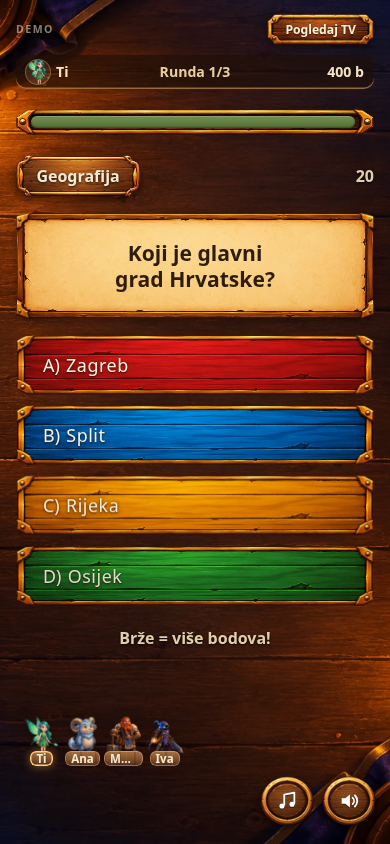
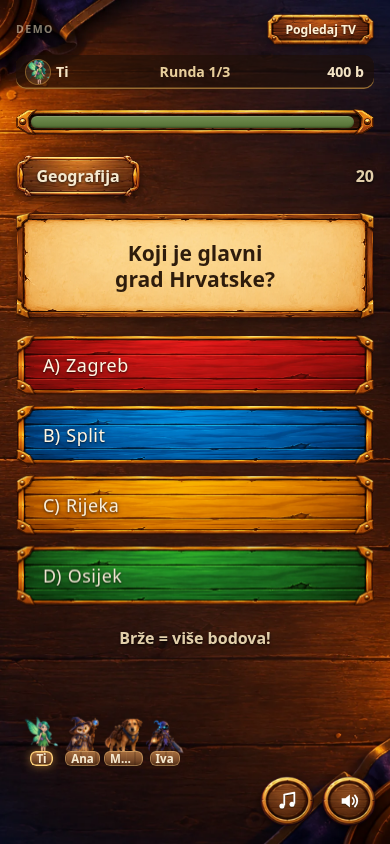
Improve mobile feedback using original tavern artwork and styling

diff --git a/index.html b/index.html
@@ -1990,6 +1990,24 @@
   .step-meter i.crown.on { opacity: 1; }
   .finale-q.crownq .opts { width: min(100%, 1100px); }
 </style>
+
+<style id="mobile-feedback-style">
+  /* Additive feedback only: original artwork, palette and screen layout stay in place. */
+  .phone .round-hit { display: flex; align-items: center; justify-content: center; flex-wrap: wrap; gap: 6px 12px; }
+  .round-hit > span { display: inline-flex; align-items: center; gap: 5px; }
+  .round-hit .mini { display: inline-flex; width: 26px; height: 26px; flex: none; }
+  .round-hit .mini > *, .round-reaction > * { width: 100%; height: 100%; object-fit: contain; }
+  .round-hit .pw-img { width: 22px; height: 22px; object-fit: contain; }
+  .phone .round-answer-detail { display: block; margin-top: 3px; font-size: .76em; font-weight: 700; }
+  .phone .fx .fx-label { max-width: 92%; white-space: normal; text-align: center; }
+  .fx-clear-progress { display: block; font-size: .76em; margin-top: 3px; font-variant-numeric: tabular-nums; }
+  .phone .rv-personal { display: flex; align-items: center; justify-content: center; gap: 10px; }
+  .round-reaction { display: inline-flex; width: 60px; height: 60px; flex: none; }
+  .phone .rv-personal .rv-sum { text-align: left; }
+  .phone .round-reaction { animation: reactionArrive .4s ease-out both; animation-delay: calc(1800ms + var(--rvo, 0ms) - var(--el, 0ms)); }
+  @keyframes reactionArrive { from { opacity: 0; transform: translateY(6px); } to { opacity: 1; transform: none; } }
+  @media (prefers-reduced-motion: reduce) { .phone .round-reaction { animation: none; } }
+</style>
 </head>
 <body>
 <div id="app" class="screen center"></div>
@@ -4543,7 +4561,7 @@ function createGame(o) {
   function phoneSig(d) {
     const me = meOf(d) || null;
     const roster = (d.ph === 'lobby' || d.ph === 'power' || d.ph === 'final') ? d.P.map((p) => [p.id, p.n, p.a, p.c])
-      : (d.ph === 'vote' || d.ph === 'voteResult') ? d.P.map((p) => [p.id, p.a, p.vt]) : ['duel', 'question', 'fq'].includes(d.ph) ? d.P.map((p) => [p.id, p.a, p.ok]) : null;
+      : (d.ph === 'vote' || d.ph === 'voteResult') ? d.P.map((p) => [p.id, p.a, p.vt]) : ['duel', 'question', 'fq'].includes(d.ph) ? d.P.map((p) => [p.id, p.a, p.c, p.ok]) : null;
     return JSON.stringify([PV ? JSON.stringify(PV, (k, v) => (k === 'ms' ? Math.ceil(v / 1000) : v)) : 0, d.news ? d.news.id : 0, d.bt ? d.bt.id : 0, d.ph, d.s, me, d.cats, d.cw, d.q, d.so, d.li, d.cor, d.win, d.it, d.ev, roster, d.mo, d.du, d.se, d.sxr, d.ht, d.or, d.hl ? 1 : 0, d.bz ? 1 : 0, d.mj]);
   }
 
@@ -4561,6 +4579,8 @@ function createGame(o) {
     stopFxTimer();
     L.fxq.shift();
     L.fx = makeFx(L.fxq[0]);
+    L.fxCleared = !L.fx;
+    if (L.fxCleared) AUDIO.play('confirm');
     HAPTIC.impact();
     // odgovori ostaju zaključani kratko vrijeme da se zadnji dodir ne pretvori u odgovor
     L.lockUntil = Date.now() + 900;
@@ -4620,7 +4640,8 @@ function createGame(o) {
   }
   function fxHtml(fx) {
     if (!fx) return '';
-    const label = '<div class="fx-label">' + FX_LABEL[fx.k] + '</div>';
+    const progress = fx.k === 'led' ? fx.hits + ' / ' + fx.need + ' dodira' : fx.k === 'sluz' ? Math.round((48 - fx.left) / 48 * 100) + '% očišćeno' : '';
+    const label = '<div class="fx-label">' + (FX_LABEL[fx.k] || '') + (progress ? '<span class="fx-clear-progress">' + progress + '</span>' : '') + '</div>';
     if (fx.k === 'led') {
       const crack = Math.min(1, fx.hits / fx.need);
       let lines = '';
@@ -4674,6 +4695,8 @@ function createGame(o) {
           const i = y * 6 + x;
           if (fx.cells[i]) { fx.cells[i] = 0; fx.left--; if (cells[i]) cells[i].classList.add('gone'); if (fx.left % 7 === 0) SFX.play('splat'); }
         }
+        const progress = el.querySelector('.fx-clear-progress');
+        if (progress) progress.textContent = Math.round((48 - fx.left) / 48 * 100) + '% očišćeno';
         if (fx.left <= 5) fxDone();
       };
       let down = false;
@@ -5691,7 +5714,7 @@ function createGame(o) {
   }
 
   function barRow(d) {
-    const mood = (p) => (d.ph === 'question' || d.ph === 'fq') && p.fx && p.fx.length ? 'shocked' : p.ok ? 'happy' : 'idle';
+    const mood = (p) => p.ok || (p.id === PID && L.sent) ? 'happy' : (d.ph === 'question' || d.ph === 'fq') && (p.id === PID ? L.fx || L.eat || (L.bombs && L.bombs.some((b) => b.on)) : p.fx && p.fx.length) ? 'shocked' : 'idle';
     return '<div class="bar-row">' + d.P.map((p) => '<div class="bw' + (p.id === PID ? ' me' : '') + '" title="' + esc(p.n) + '" aria-label="' + esc(p.n) + '"><span class="glow"></span>' + avSvg(p.a, mood(p)) + '<span class="nm">' + esc(p.id === PID ? 'Ti' : p.n) + '</span>' + (p.ok ? '<span class="ok" data-bk="bw' + esc(p.id) + '" data-bv="1">✓</span>' : '') + '</div>').join('') + '</div>';
   }
   function hudRound(rl) { const m = /^Runda (\d+)$/.exec(rl || ''); return m ? 'Runda ' + m[1] + '/3' : (rl || ''); }
@@ -6017,11 +6040,14 @@ function createGame(o) {
       return '<button class="' + cls + '" data-c="' + i + '" data-bk="op' + i + '" data-bv="' + st + '"' + (st ? ' data-ba="' + (st === 'picked' ? 'pickIn' : 'dimIn') + '"' : '') + ' aria-pressed="' + (mine === i) + '"' + (answered || gone ? ' disabled' : '') + '><span class="shape">' + SHAPES[i] + '</span><span class="otxt">' + optText(o, i) + '</span></button>';
     }).join('');
     const attackers = (d.ev || []).filter((e) => e.t === PID);
-    const hit = attackers.length ? '<div class="p-sub">' + attackers.map((e) => esc(nameOf(d, e.f)) + ' ' + ICON[e.p] + (e.b ? ' (odbijeno)' : '')).join(' · ') + '</div>' : '';
+    const hit = attackers.length ? '<div class="p-sub round-hit">' + attackers.map((e) => '<span><span class="mini">' + avSvg(avOf(d, e.f), 'attack') + '</span>' + esc(nameOf(d, e.f)) + ' ' + ICON[e.p] + (e.b ? ' · štit odbija' : '') + '</span>').join('') + '</div>' : '';
+    const players = d.P.filter((p) => p.c || p.id === PID);
+    const ready = players.filter((p) => p.ok || (p.id === PID && L.sent)).length;
+    const detail = answered ? (mine >= 0 ? 'Odabir ' + SHAPES[mine] + ' · ' : '') + 'Spremno ' + ready + '/' + players.length : L.fx ? 'Ukloni moć pa odaberi odgovor.' : L.fxCleared ? 'Moć uklonjena · brži odgovor donosi više bodova.' : '';
     return timerHtml() + '<div class="p-top"><span class="pill">' + esc(d.q.c) + '</span><span id="tnum"></span></div>' +
       qTextHtml(d, false) + (buffs ? '<div class="buffs">' + buffs + '</div>' : '') + hit +
       '<div class="q-area"><div class="p-opts">' + opts + '</div>' + (answered ? '' : fxHtml(L.fx) + bombLayer()) + '</div>' + boomCover() +
-      '<div class="waiting" role="status" data-bk="qwait" data-ba="subIn">' + (answered ? 'Odgovor zaprimljen ✔' : L.fx ? '' : locked ? 'Očišćeno! Odgovori se otključavaju…' : 'Brže = više bodova!') + '</div>';
+      '<div class="waiting" role="status" data-bk="qwait" data-ba="subIn">' + (answered ? 'Odgovor zaprimljen ✔' : L.fx ? '' : locked ? 'Očišćeno! Odgovori se otključavaju…' : 'Brže = više bodova!') + (detail ? '<span class="round-answer-detail">' + esc(detail) + '</span>' : '') + '</div>';
   }
 
   function revOpts(d, mine, tv) {
@@ -6079,7 +6105,7 @@ function createGame(o) {
     const wh = wheel(d);
     return '<style>' + wh.css + '</style><div class="rv wheel" style="--el:' + el + 'ms;--rvo:' + WH.end + 'ms;--rvw:' + WH.walk + 'ms">' +
       '<div class="rv-a">' + qTextHtml(d, false) + (none ? '<div class="rv-sum">Vrijeme je isteklo</div>' : '') + revOpts(d, me.ch, false) + pts + (me.br ? '<div class="rv-bet' + (me.br < 0 ? ' neg' : '') + '">Ulog: ' + (me.br > 0 ? '+' : '−') + Math.abs(me.br) + '</div>' : '') + secretRevealLine(d, me) + '</div>' +
-      '<div class="rv-b"><div class="rv-sum">' + sum + '</div>' + roundRecap(d, me) + b.html + (d.mo ? tdLine(d) : b.lead ? '<div class="rv-lead">Novo vodstvo: ' + esc(b.lead.id === PID ? 'ti' : b.lead.n) + '!</div>' : '') + '</div></div>';
+      '<div class="rv-b"><div class="rv-personal"><span class="round-reaction" aria-hidden="true">' + avSvg(me.a, ok ? 'victory' : 'sad') + '</span><div class="rv-sum">' + sum + '</div></div>' + roundRecap(d, me) + b.html + (d.mo ? tdLine(d) : b.lead ? '<div class="rv-lead">Novo vodstvo: ' + esc(b.lead.id === PID ? 'ti' : b.lead.n) + '!</div>' : '') + '</div></div>';
   }
 
   function progress(n, done) { let s = ''; for (let i = 0; i < n; i++) s += '<i class="' + (i < done ? 'done' : '') + '"></i>'; return '<div class="progress">' + s + '</div>'; }
@@ -6242,14 +6268,15 @@ function createGame(o) {
     // predvorje: popis igrača se pomiče sam za sebe; pamti položaj i pokaži da ima još redova
     { const lp = $app.querySelector('.lob-players');
       if (lp) { const upd = () => lp.classList.toggle('more', lp.scrollTop + lp.clientHeight < lp.scrollHeight - 4); lp.scrollTop = L.lobSc || 0; lp.onscroll = () => { L.lobSc = lp.scrollTop; upd(); }; upd(); } }
-    $app.querySelectorAll('[data-v]').forEach((b) => { b.onclick = () => { if (!L.sent) sendInput({ v: +b.dataset.v }); }; });
+    $app.querySelectorAll('[data-v]').forEach((b) => { b.onclick = () => { if (!L.sent) { AUDIO.play('tap'); HAPTIC.tap(); sendInput({ v: +b.dataset.v }); } }; });
     $app.querySelectorAll('[data-p]').forEach((b) => {
       b.onclick = () => {
         const k = b.dataset.p;
+        AUDIO.play('tap'); HAPTIC.tap();
         if (POWERS[k].atk) { L.pw = k; phoneRender(true); } else sendInput({ p: k });
       };
     });
-    $app.querySelectorAll('[data-t]').forEach((b) => { b.onclick = () => sendInput({ p: L.pw, t: b.dataset.t }); });
+    $app.querySelectorAll('[data-t]').forEach((b) => { b.onclick = () => { AUDIO.play('confirm'); HAPTIC.confirm(); sendInput({ p: L.pw, t: b.dataset.t }); }; });
     $app.querySelectorAll('[data-bet]').forEach((b) => { b.onclick = () => { if (!L.sent) sendInput({ b: +b.dataset.bet }); }; });
     $app.querySelectorAll('[data-or]').forEach((b) => { b.onclick = () => {
       if (L.sent) return; const i = +b.dataset.or; L.ord = (L.ord || []).filter((x) => x !== i).concat(i);

diff --git a/sw.js b/sw.js
@@ -1,5 +1,5 @@
 // Mozgalica: uvijek pokušaj mrežu, a bez interneta posluži zadnju spremljenu verziju.
-const CACHE = 'mozgalica-v21';
+const CACHE = 'mozgalica-v22';
 const CORE = ['./', './index.html', './manifest.webmanifest', './icon-192.png', './icon-512.png', './icon.svg'];
 self.addEventListener('install', (e) => {
   e.waitUntil(caches.open(CACHE).then((c) => c.addAll(CORE)).then(() => self.skipWaiting()));

diff --git a/tests/test_mobile_feedback.py b/tests/test_mobile_feedback.py
@@ -1,0 +1,131 @@
+"""Browser regression checks for mobile feedback. Run: python3 tests/test_mobile_feedback.py.
+Requires Python Playwright and Chromium. No test hooks are added to the application:
+the test instruments only the document response in its isolated browser context.
+Set MOZGALICA_SCREENSHOTS to an output directory to capture the tested screens.
+"""
+import json
+import functools
+import os
+import shutil
+import threading
+from http.server import SimpleHTTPRequestHandler, ThreadingHTTPServer
+from pathlib import Path
+from playwright.sync_api import sync_playwright
+root = Path(__file__).resolve().parents[1]
+s = (root / 'index.html').read_text()
+html = s.replace('window.__dbg = {', 'window.__dbg = { get state() { return S; }, get pid() { return PID; }, setState: (d) => { game.stop(); applyState(d); },')
+
+class QuietHandler(SimpleHTTPRequestHandler):
+
+    def log_message(self, *args):
+        pass
+server = ThreadingHTTPServer(('127.0.0.1', 0), functools.partial(QuietHandler, directory=str(root)))
+threading.Thread(target=server.serve_forever, daemon=True).start()
+url = f'http://127.0.0.1:{server.server_port}/'
+
+def capture(name):
+    if os.environ.get('MOZGALICA_SCREENSHOTS'):
+        output = Path(os.environ['MOZGALICA_SCREENSHOTS'])
+        output.mkdir(parents=True, exist_ok=True)
+        page.screenshot(path=str(output / name), full_page=True)
+with sync_playwright() as p:
+    launch = {'executable_path': os.environ.get('CHROMIUM_EXECUTABLE', shutil.which('chromium')), 'headless': True, 'args': ['--no-sandbox']}
+    if os.environ.get('HTTPS_PROXY'):
+        launch['proxy'] = {'server': os.environ['HTTPS_PROXY'], 'bypass': '127.0.0.1,localhost'}
+    b = p.chromium.launch(**launch)
+    page = b.new_page(viewport={'width': 390, 'height': 844}, has_touch=True, is_mobile=True)
+    errors = []
+    page.on('pageerror', lambda e: errors.append(str(e)))
+    page.route(url, lambda r: r.fulfill(status=200, content_type='text/html', body=html))
+    page.goto(url, wait_until='load')
+    page.locator('#demo').tap()
+    pid = page.evaluate('window.__dbg.pid')
+    base = page.evaluate('window.__dbg.state')
+    counter = 100
+
+    def show(ph, fx=None, elapsed=0, answer=0):
+        global counter
+        counter += 1
+        d = json.loads(json.dumps(base))
+        d.update(ph=ph, s=counter, rl='Runda 1', dur=20000, ms=20000 - elapsed, ntv=True, fin=False, ev=[], q={'c': 'Geografija', 't': 'Koji je glavni grad Hrvatske?', 'o': ['Zagreb', 'Split', 'Rijeka', 'Osijek']}, cor=0)
+        for i, x in enumerate(d['P']):
+            x.update(sc=400 - i * 100, ok=False, g=0, ch=-1)
+        me = next((x for x in d['P'] if x['id'] == pid))
+        if fx:
+            me['fx'] = [fx]
+        if ph == 'reveal':
+            me.update(ch=answer, g=750 if answer == 0 else 0, sc=1150 if answer == 0 else 400)
+        page.evaluate('(d)=>window.__dbg.setState(d)', d)
+        page.wait_for_timeout(350)
+        return d
+    show('question')
+    capture('mobile-round-question.png')
+    assert not page.locator('.phone-round').count()
+    for width in [320, 360, 390, 430]:
+        page.set_viewport_size({'width': width, 'height': 844})
+        assert page.evaluate('document.documentElement.scrollWidth<=innerWidth'), width
+    page.set_viewport_size({'width': 390, 'height': 844})
+    d = page.evaluate('window.__dbg.state')
+    d['P'][1]['ok'] = True
+    page.evaluate('(d)=>window.__dbg.setState(d)', d)
+    assert page.locator('.bar-row .ok').count() == 1
+    print('PASS original mobile layout and live readiness', flush=True)
+    show('question', fx='led')
+    assert page.locator('.fx-clear-progress').inner_text() == '0 / 7 dodira'
+    page.locator('#fx').tap(position={'x': 25, 'y': 80})
+    assert page.locator('.fx-clear-progress').inner_text() == '1 / 7 dodira'
+    for _ in range(6):
+        page.locator('#fx').tap(position={'x': 25, 'y': 80})
+    assert not page.locator('#fx').count()
+    page.locator('[data-c]').first.tap()
+    assert not page.evaluate('Boolean(window.__dbg.L.sent)')
+    page.wait_for_timeout(950)
+    page.locator('[data-c]').first.tap()
+    assert 'Odgovor zaprimljen ✔' in page.locator('[role="status"]').inner_text()
+    assert 'Odabir A' in page.locator('.round-answer-detail').inner_text()
+    assert 'Spremno 1/4' in page.locator('.round-answer-detail').inner_text()
+    d = page.evaluate('window.__dbg.state')
+    d['P'][1]['ok'] = True
+    page.evaluate('(d)=>window.__dbg.setState(d)', d)
+    assert 'Spremno 2/4' in page.locator('.round-answer-detail').inner_text()
+    assert page.locator('[aria-pressed="true"]').count() == 1
+    assert not page.locator('[data-c]:not(:disabled)').count()
+    assert 'happy' in page.locator('.bar-row .bw.me img').get_attribute('src')
+    print('PASS ice, input lock and answer confirmation', flush=True)
+    show('question', fx='sluz')
+    assert page.locator('.fx-clear-progress').inner_text() == '0% očišćeno'
+    r = page.locator('#fx').bounding_box()
+    page.mouse.move(r['x'] + r['width'] / 12, r['y'] + r['height'] / 16)
+    page.mouse.down()
+    assert page.locator('.fx-clear-progress').inner_text() != '0% očišćeno'
+    for row in range(8):
+        for col in range(6):
+            page.mouse.move(r['x'] + (col + 0.5) * r['width'] / 6, r['y'] + (row + 0.5) * r['height'] / 8)
+    page.mouse.up()
+    assert not page.locator('#fx').count()
+    assert page.evaluate('window.__dbg.L.fxCleared')
+    print('PASS slime progress and clearing', flush=True)
+    d = show('question')
+    d['ev'] = [{'f': d['P'][1]['id'], 't': pid, 'p': 'led', 'b': True}]
+    page.evaluate('(d)=>window.__dbg.setState(d)', d)
+    assert 'štit odbija' in page.locator('.round-hit').inner_text()
+    assert page.locator('.round-hit .mini img').count() == 1
+    capture('mobile-round-attack.png')
+    show('reveal')
+    assert page.locator('.rv-b').evaluate('(e)=>Number(getComputedStyle(e).opacity)') == 0
+    page.wait_for_timeout(6600)
+    assert page.locator('.rv-b').evaluate('(e)=>Number(getComputedStyle(e).opacity)') == 1
+    assert 'victory' in page.locator('.round-reaction img').get_attribute('src')
+    assert 'Prednost pred' in page.locator('[data-round-recap]').inner_text()
+    capture('mobile-round-result.png')
+    for answer, expected in [(1, 'Netočno'), (-1, 'Vrijeme je isteklo')]:
+        show('reveal', elapsed=7000, answer=answer)
+        assert expected in page.locator('.rv-b .rv-sum').inner_text()
+    page.emulate_media(reduced_motion='reduce')
+    show('reveal')
+    assert page.locator('.rv-b').evaluate('(e)=>Number(getComputedStyle(e).opacity)') == 0
+    print('PASS timed reveal, ranking, wrong answer, timeout and reduced motion', flush=True)
+    assert not errors, errors
+    print('PAGE_ERRORS', errors, flush=True)
+    b.close()
+server.shutdown()

diff --git a/docs/mobile-round-preview.md b/docs/mobile-round-preview.md
@@ -1,6 +1,6 @@
 # Mobilna runda — dorade uz izvorni vizualni identitet
 
-Ova grana zadržava izvornu paletu, drvene ploče, pergament, tipografiju, likove i raspored igre. Raniji prijedlog redizajna uklonjen je. CSS u `index.html` jednak je onome iz početne verzije `e330708`.
+Ova grana zadržava izvornu paletu, drvene ploče, pergament, tipografiju, likove i raspored igre. Raniji prijedlog redizajna uklonjen je. Izvorni CSS iz verzije `e330708` ostao je sačuvan; novi stilovi ograničeni su na male oznake povratnih informacija i reakciju lika.
 
 Grana nije spojena u `main` niti objavljena na postojećoj adresi igre.
 
@@ -8,15 +8,27 @@ Grana nije spojena u `main` niti objavljena na postojećoj adresi igre.
 
 ![Mobilni ekran pitanja u izvornom stilu](previews/mobile-round-question.png)
 
+## Potvrda odgovora
+
+![Potvrda odabira i broj spremnih igrača](previews/mobile-round-answer.png)
+
+## Napad i štit
+
+![Protivnikov lik uz napad i povratna informacija o štitu](previews/mobile-round-attack.png)
+
 ## Rezultat
 
 ![Mobilni ekran rezultata u izvornom stilu](previews/mobile-round-result.png)
 
-Snimke su izrađene u Chromiumu na prikazu širine 390 px, s kontroliranim testnim stanjem igre.
+Snimke su izrađene u Chromiumu na prikazu širine 390 px. Potvrda odgovora snimljena je tijekom igre protiv botova; ostali prikazi koriste kontrolirana testna stanja.
 
 ## Zadržane dorade
 
-- Zvuk potvrde odgovora i pristupačna oznaka odabranog odgovora.
+- Zvuk i podržana vibracija pri odabiru kategorije, moći i mete.
+- Potvrda odgovora s oznakom odabira i brojem spremnih igrača.
+- Napredak pri razbijanju leda i čišćenju sluzi te potvrda uklanjanja moći.
+- Protivnikov lik uz napad i jasna potvrda kada štit odbije napad.
+- Reakcija vlastitog lika uz rezultat, koristeći postojeće ilustracije.
 - Reakcija vlastitog lika nakon odgovora i ispravan prikaz likova koji nisu pod napadom.
 - Imena uz likove i pravovremeno osvježavanje oznaka spremnosti ostalih igrača.
 - Kratak tekst ispod rezultata: pomak na ljestvici i bodovna razlika do suparnika.
@@ -35,10 +47,22 @@ Otvori lokalni poslužitelj u pregledniku i odaberi **Igraj protiv botova**. Gra
 
 ## Provjere ispravka
 
-- Potvrđeno da je izvorni CSS sačuvan bez promjena.
+- Potvrđeno da je izvorni blok CSS-a sačuvan bez promjena; dodatni stilovi ne mijenjaju boje, pozadine ili grafiku pitanja i odgovora.
 - Prikaz širine 320–430 px i osvježavanje statusa ostalih igrača.
 - Razbijanje leda, zaštita od slučajnog odgovora nakon čišćenja i potvrda izbora.
 - Rezultat ostaje skriven do završetka otkrivanja; točan/pogrešan odgovor i istek vremena.
 - JavaScript sintaksa i provjera pogrešaka u Chromiumu.
 
 Mrežna igra između uređaja nije potvrđena u ovom okruženju zbog ograničenja pristupa vanjskim servisima.
+
+## Ponovljive provjere
+
+Za pregledničke provjere trebaju Python Playwright i Chromium. Pokreni:
+
+```sh
+python3 tests/test_mobile_feedback.py
+```
+
+Test sam pokreće privremeni HTTP poslužitelj i provjerava UI s kontroliranim stanjima. Ne dodaje testna sučelja u aplikaciju. `CHROMIUM_EXECUTABLE` može zadati putanju preglednika, a `MOZGALICA_SCREENSHOTS` mapu za snimke.
+
+Dodatno je provjerena cijela demo runda kroz stvarno glasanje, odabir moći, slanje odgovora i prikaz rezultata, bez ubrizgavanja stanja.
